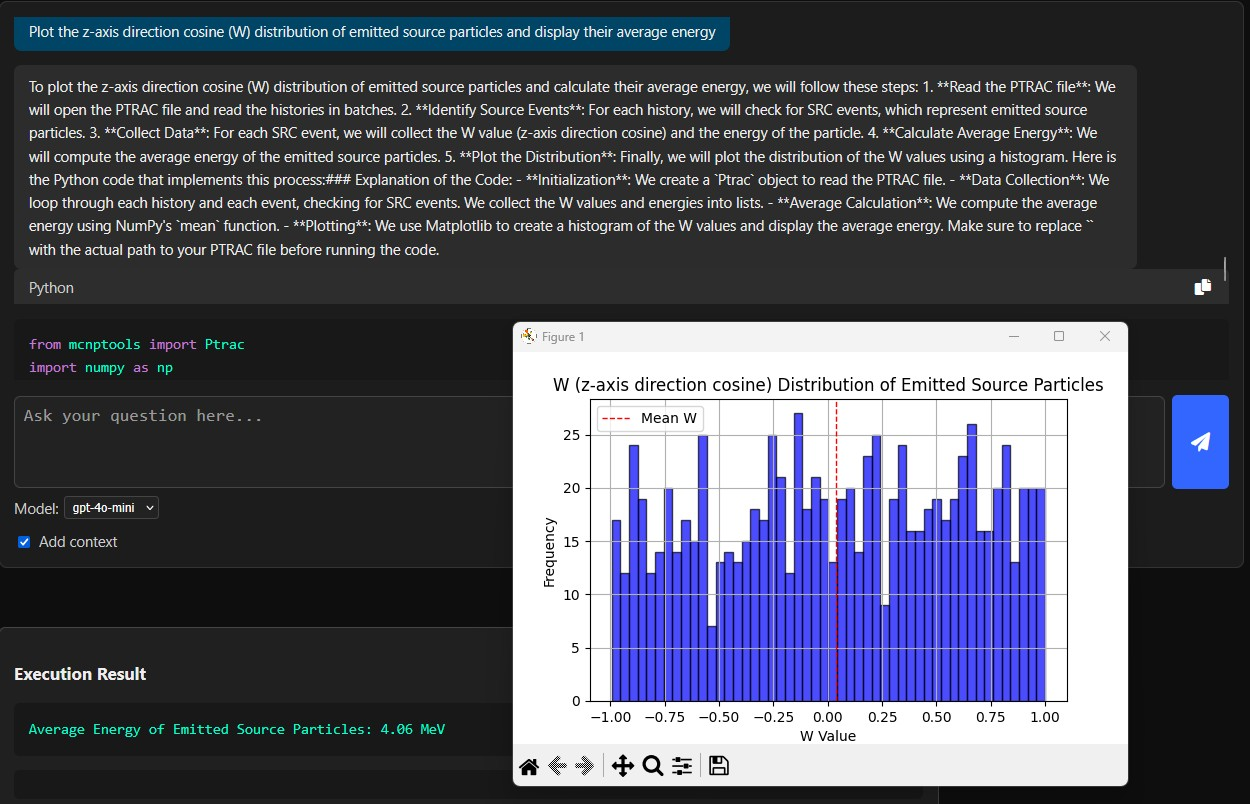
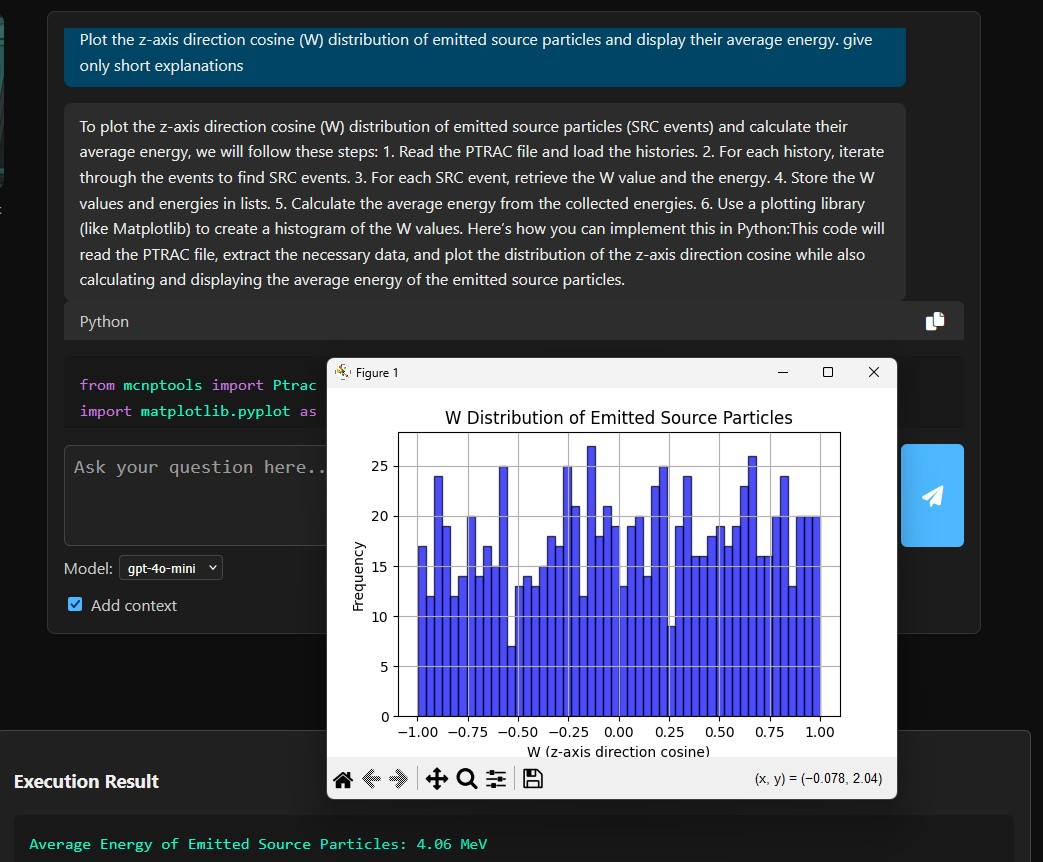
update: frontend look; paper

diff --git a/frontend/static/css/style.css b/frontend/static/css/style.css
@@ -1,3 +1,7 @@
+:root {
+  --primary-color: #4db8ff;  /* bleu logo */
+  --primary-color-hover: #3399ff; /* bleu version un peu plus foncée */
+}
 /* === BASE === */
 body {
   margin: 0;
@@ -7,20 +11,26 @@ body {
   color: #eee;
   font-size: 16px;
   line-height: 1.6;
+  overflow-x: hidden;   /* ✅ empêche le scroll horizontal */
 }
 
-/* === CONTAINER === */
+.center-column {
+  max-width: 900px;
+  margin: 0 auto 2rem auto;  /* centre chaque bloc */
+}
+
+
 .main-container {
-  width: 100%;            /* ✅ remplace max-width */
-  max-width: none;
-  margin: 0 auto;
-  padding: 2rem;
+  width: 100%;
+  max-width: 1400px;   /* limite max, sinon ça s’étire trop */
+  margin: 0 auto;      /* centre horizontalement */
+  padding: 0 2vw;     /* petit padding symétrique */
 }
 
 /* === HEADER === */
 .app-header {
   text-align: center;
-  margin-bottom: 2rem;
+  margin: 3rem 0 2rem 0;  /* 3rem en haut, 2rem en bas */
 }
 
 .decima-title {
@@ -32,19 +42,16 @@ body {
   margin-bottom: 0.2rem; 
 }
 
-.subtitle {
-  font-size: 1.5rem;
-  font-weight: 400;
-  color: #ccc;
-  margin-top: 0.3rem;
-  margin-bottom: 1rem;
-  text-align: center;
-  max-width: 100%;
-  white-space: nowrap;  
-  overflow: hidden;
-  text-overflow: ellipsis; 
-}
 
+.capsule {
+  display: inline-block;
+  background: rgba(77, 184, 255, 0.1);  /* fond bleu très léger */
+  color: #4db8ff;                       /* ✅ même bleu que DECIMA */
+  padding: 0.4rem 1rem;
+  border-radius: 20px;
+  font-weight: 600;
+  font-size: 1.1rem;
+}
 
 /* === FILE UPLOAD === */
 .upload-section {
@@ -53,17 +60,22 @@ body {
 }
 
 .upload-btn {
-  padding: 0.7rem 1.4rem;
+  padding: 0.9rem 1.8rem;
   background-color: #1f1f1f;
   color: #fff;
   border: 1px solid #444;
   border-radius: 6px;
   cursor: pointer;
-  transition: background-color 0.3s;
+  font-size: 1.1rem;           
+  font-weight: 600;            
+  transition: all 0.3s ease;
 }
 
 .upload-btn:hover {
-  background-color: #333;
+  background-color: var(--primary-color);   /*  bleu logo */
+  border-color: var(--primary-color);       /* bordure bleue */
+  color: #fff;                              /* texte blanc lisible */
+  /*box-shadow: 0 0 12px rgba(77, 184, 255, 0.6); /* halo bleu subtil */
 }
 
 .file-info {
@@ -92,7 +104,7 @@ body {
 /* === CHAT SECTION === */
 .chat-section {
   flex: 1;
-  min-width: 650px;
+  max-width: 900px;
   border: 1px solid #333;
   border-radius: 8px;
   padding: 1rem;
@@ -147,7 +159,7 @@ body {
 .chat-input button {
   padding: 0 1.3rem;
   font-size: 1.3rem;
-  background-color: #3366ff;
+  background-color: var(--primary-color);
   color: white;
   border: none;
   border-radius: 6px;
@@ -156,7 +168,7 @@ body {
 }
 
 .chat-input button:hover {
-  background-color: #5588ff;
+  background-color: var(--primary-color-hover);
 }
 
 /* === RESULT SECTION === */
@@ -166,8 +178,10 @@ body {
   padding: 1rem;
   margin-top: 2rem;
   border: 1px solid #444;
-  width: 1000px;
-  max-width: 65%;
+  width: 100%;          /* occupe toute la largeur dispo */
+  max-width: 1000px;    /* limite max */
+  margin-left: auto;
+  margin-right: auto;
 }
 
 /* === CODE === */
@@ -250,20 +264,23 @@ pre {
   margin-top: 0.2rem;
 }
 
+/* Style du checkbox quand il est coché */
+.context-toggle input[type="checkbox"]:checked {
+  accent-color: var(--primary-color); /* utilise le bleu du logo */
+}
+
 .chat-wrapper {
+  position: relative;
   display: flex;
-  justify-content: flex-start;         
-  align-items: flex-start;
-  gap: 2rem;
-  margin-bottom: 2rem;
-  width: 100%;
-  margin-left: 270px;    
+  justify-content: center;
+  margin: 0 auto 2rem auto;
+  max-width: 1100px;  /* largeur max colonne centrale */
 }
 
 
 .chat-section {
-  width: 750px;          
-  max-width: 65%;
+  max-width: 900px;   /* limite mais pas fixe */
+  flex: 1;            /* prend l’espace restant */
   border: 1px solid #333;
   border-radius: 8px;
   padding: 1rem;
@@ -271,34 +288,32 @@ pre {
 }
 
 .otacon-side {
+  position: absolute;
+  left: -140px;     /* ⬅contrôle combien Otacon est décalé à gauche */
+  top: 0;
+  width: 180px;
   display: flex;
   flex-direction: column;
   align-items: center;
-  justify-content: flex-start;
-  margin-top: 1rem;
-  width: 120px;        
-  flex-shrink: 0;
-  margin-left: 0rem;   
-  margin-right: 5rem;
 }
 
 .otacon-img {
-  width: 80px;
+  width: 100%;
   height: auto;
-  border-radius: 8px;
+  aspect-ratio: 1/1;  /* carré automatique */
+  object-fit: cover;
+  border-radius: 12px;
   margin-bottom: 0.5rem;
 }
 
 .otacon-caption {
   color: #4db8ff;
   font-weight: 600;
-  font-size: 0.85rem;
+  font-size: 0.9rem;
   text-align: center;
-  max-width: 120px;       
-  white-space: normal;
-  word-wrap: break-word;
-  line-height: 1.4;
+  line-height: 1.3;
 }
+
 .stop-btn {
   margin-top: 0.5rem;
   padding: 0.5rem 1rem;
@@ -347,4 +362,62 @@ pre {
   font-weight: 600;
 }
 .warning-banner i { color: #ff8080; }
+
+.decima-logo {
+  display: block;
+  margin: 0 auto;     /* centre l’image */
+  height: 200px;      
+  object-fit: contain; /* évite l’écrasement */
+}
+
+.instruction-title {
+  font-size: 1.4rem;
+  font-weight: 600;
+  text-align: center;
+  margin-bottom: 1rem;
+  color: #ffffff;
+}
+
+.examples-block {
+  background: #161616;
+  border: 1px solid #2a2a2a;
+  border-radius: 8px;
+  padding: 1rem 1.5rem;
+  max-width: 900px;
+  margin: 0 auto 2rem auto;
+  color: #ccc;
+  box-shadow: 0 4px 12px rgba(0,0,0,0.3);
+  text-align: left;   /* force le texte à s’aligner à gauche */
+}
+
+.examples-title {
+  font-weight: 600;
+  margin: 0 0 0.6rem 0;
+  color: var(--primary-color);
+  font-size: 1.6rem;  
+  text-align: center;  /* le titre reste centré */
+}
+
+.examples-block ul {
+  list-style: none;
+  padding-left: 0;
+  margin: 0; /* supprime espaces inutiles */
+}
+
+.examples-block li {
+  margin-bottom: 0.6rem;
+  line-height: 1.5;
+  padding-left: 1.5rem;   /* espace uniforme après étoile */
+  position: relative;
+  text-align: left;      
+}
+
+.examples-block li::before {
+  content: "✦";
+  color: var(--primary-color);
+  font-weight: bold;
+  position: absolute;
+  left: 0;
+}
+
 

diff --git a/frontend/index.html b/frontend/index.html
@@ -15,8 +15,8 @@
 
     <!-- Header -->
     <header class="app-header">
-      <h1 class="decima-title">DECIMA</h1>
-      <p class="subtitle">Data Extraction & Contextual Inference for MCNP Analysis</p>
+      <img src="{{ url_for('static', filename='img/decima_logo.png') }}" alt="DECIMA Logo" class="decima-logo">
+      <p class="subtitle capsule">Data Extraction & Contextual Inference for MCNP Analysis</p>
     </header>
 
     <!-- KG/Neo4j warning banner -->
@@ -36,18 +36,32 @@
 
     <!-- Instructional message -->
     <section class="instruction-message">
-      <p><strong>Ask a meaningful and concise question related to the specific event data in your PTRAC file.</strong></p>
-      <p class="example-text"><em><strong>Examples:</strong><br>
-      Print x y z positions and energies of all the particles entering the Water moderator (cell 502)<br>
-      How many secondary photons are emitted and what is their process of termination?<br>
-      Plot the z-axis direction cosine (W) distribution of emitted source particles and display their average energy<br>
-      For the first 10 histories, display the full path of neutrons from source to termination, including energy and position at each collision<br>
-      Plot the collision energy spectrum of neutrons interacting with U-235 through elastic scattering reaction</em></p>
+      <h2 class="instruction-title">
+        Ask a precise and concise question related to the specific event data in your PTRAC file
+      </h2>
+
+      <div class="examples-block center-column">
+        <p class="examples-title">Examples:</p>
+        <ul>
+          <li>Print x y z positions and energies of all the particles entering the Water moderator (cell 502)</li>
+          <li>How many secondary photons are emitted and what is their process of termination?</li>
+          <li>Plot the z-axis direction cosine (W) distribution of emitted source particles and display their average energy</li>
+          <li>For the first 10 histories, display the full path of neutrons from source to termination, including energy and position at each collision</li>
+          <li>Plot the collision energy spectrum of neutrons interacting with U-235 through elastic scattering reaction</li>
+        </ul>
+      </div>
     </section>
 
     <!-- Chat section -->
     <div class="chat-wrapper">
-      <section class="chat-section">
+      <!-- Otacon on the left side -->
+      <div class="otacon-side">
+        <img src="{{ url_for('static', filename='img/classy_otacon.png') }}" alt="Otacon" class="otacon-img">
+        <div class="otacon-caption">LLM Otacon ready to assist you with PTRAC analysis</div>
+      </div>
+
+      <!-- Chat box -->
+      <section class="chat-section center-column">
         <div id="chat-messages" class="chat-messages"></div>
         <div class="chat-input-block">
           <div id="reasoning-loader" class="loader-message" style="display: none;">
@@ -71,18 +85,13 @@
           </div>
         </div>
       </section>
-
-      <!-- Otacon to the right hand side -->
-      <div class="otacon-side">
-        <img src="{{ url_for('static', filename='img/otacon.png') }}" alt="Otacon" class="otacon-img">
-        <div class="otacon-caption">LLM Otacon ready to assist you with PTRAC parsing</div>
-      </div>
     </div>
+
 
 
     <!-- Result output -->
     <div class="chat-wrapper">
-      <section id="result-section" class="result-section" style="display: none;">
+      <section id="result-section" class="result-section center-column" style="display: none;">
         <h3>Execution Result</h3>
         <pre id="execution-stdout"></pre>
         <pre id="execution-stderr" class="error-block"></pre>

diff --git a/paper.md b/paper.md
@@ -119,14 +119,15 @@ DECIMA (OTACON agent) returns an explanation of the analysis process together wi
 
 ```python
 from mcnptools import Ptrac
-import numpy as np
 import matplotlib.pyplot as plt
 
 ptrac_path = '<PTRAC_PATH_PLACEHOLDER>'
 p = Ptrac(ptrac_path, Ptrac.BIN_PTRAC)
 
-w_values, energies = [], []
+w_values = []
+energies = []
 
+# Read histories in batches of 10000
 hists = p.ReadHistories(10000)
 while hists:
     for h in hists:
@@ -139,15 +140,15 @@ while hists:
                     energies.append(event.Get(Ptrac.ENERGY))
     hists = p.ReadHistories(10000)
 
-average_energy = np.mean(energies) if energies else 0
+# Calculate average energy
+average_energy = sum(energies) / len(energies) if energies else 0
 
+# Plotting the W distribution
 plt.hist(w_values, bins=50, alpha=0.7, color='blue', edgecolor='black')
-plt.title('W (z-axis direction cosine) Distribution of Emitted Source Particles')
-plt.xlabel('W Value')
+plt.title('W Distribution of Emitted Source Particles')
+plt.xlabel('W (z-axis direction cosine)')
 plt.ylabel('Frequency')
-plt.grid()
-plt.axvline(x=np.mean(w_values), color='red', linestyle='dashed', linewidth=1, label='Mean W')
-plt.legend()
+plt.grid(True)
 plt.show()
 
 print(f'Average Energy of Emitted Source Particles: {average_energy:.2f} MeV')

diff --git a/README.md b/README.md
@@ -239,7 +239,7 @@ See the [`doc/`](doc/) folder for:
 If you use DECIMA in your work, please cite the software as follows:
 
 > Almuhisen F. and Ducasse Q., *DECIMA – Data Extraction & Contextual Inference for MCNP Analysis*,  
-> Version v1.1.1, GitHub repository, 2025.  
+> Version v1.2.0, GitHub repository, 2025.  
 > Available at: [https://github.com/quentinducasse/decima](https://github.com/quentinducasse/decima)
 
 📌 A JOSS paper submission is in preparation. Once published, please update your citation to use the official DOI.
